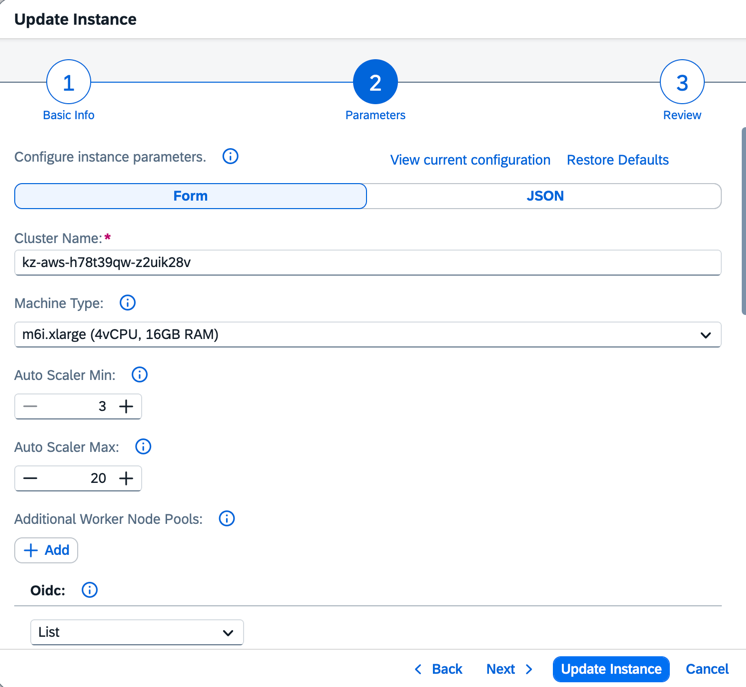
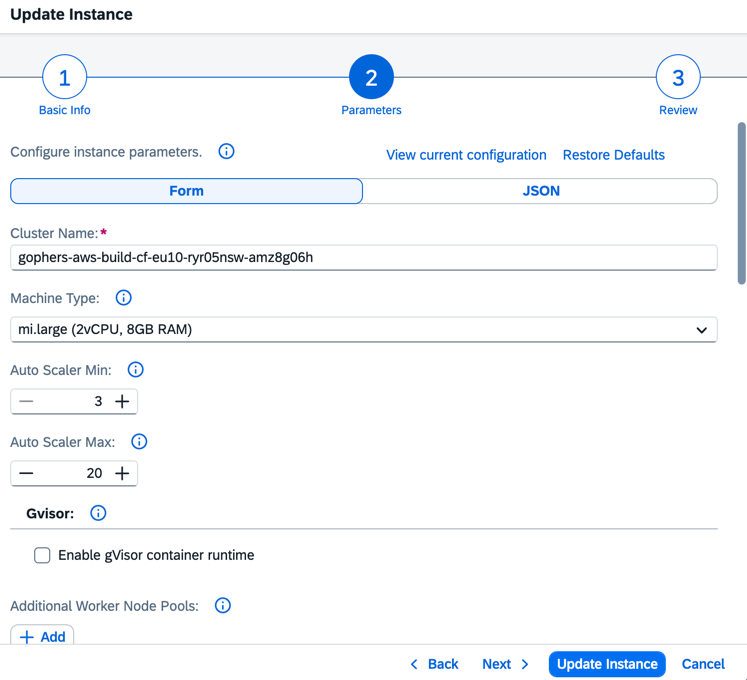
Expand BTP Cockpit Section in ADR-002 With JSON View Steps (#3208)

Pull request: Expand BTP Cockpit Section in ADR-002 With JSON View Steps
**Description**

Changes proposed in this pull request:

- Split the "Switching JSON ↔ Form View" bullet into two separate steps: switching to JSON view and switching back to Form view
- Add description and screenshots for the JSON view step, showing the retained `machineType` value and the validation error
- Update the screenshot for the Form view step

**Related issue(s)**

diff --git a/docs/contributor/adr/ADR-002-abstract-machines-names.md b/docs/contributor/adr/ADR-002-abstract-machines-names.md
@@ -773,9 +773,17 @@ A Kyma cluster was provisioned with machine type `m6i.large`, which was later re
   
   ![update-instance-view-1.png](assets/update-instance-view-1.png)
 
-- Switching JSON ↔ Form View
+- Switching to JSON view
 
-  The field is automatically set to the first available value from the schema.
+  The `machineType` field retains the original value (`m6i.large`), but the update cannot be submitted due to a validation error.
+
+  ![update-instance-json-view.png](assets/update-instance-json-view.png)
+
+  ![update-instance-json-error-view.png](assets/update-instance-json-error-view.png)
+
+- Switching back to Form view
+
+  The field is automatically reset to the first available value from the schema.
   
   ![update-instance-view-2.png](assets/update-instance-view-2.png)
 